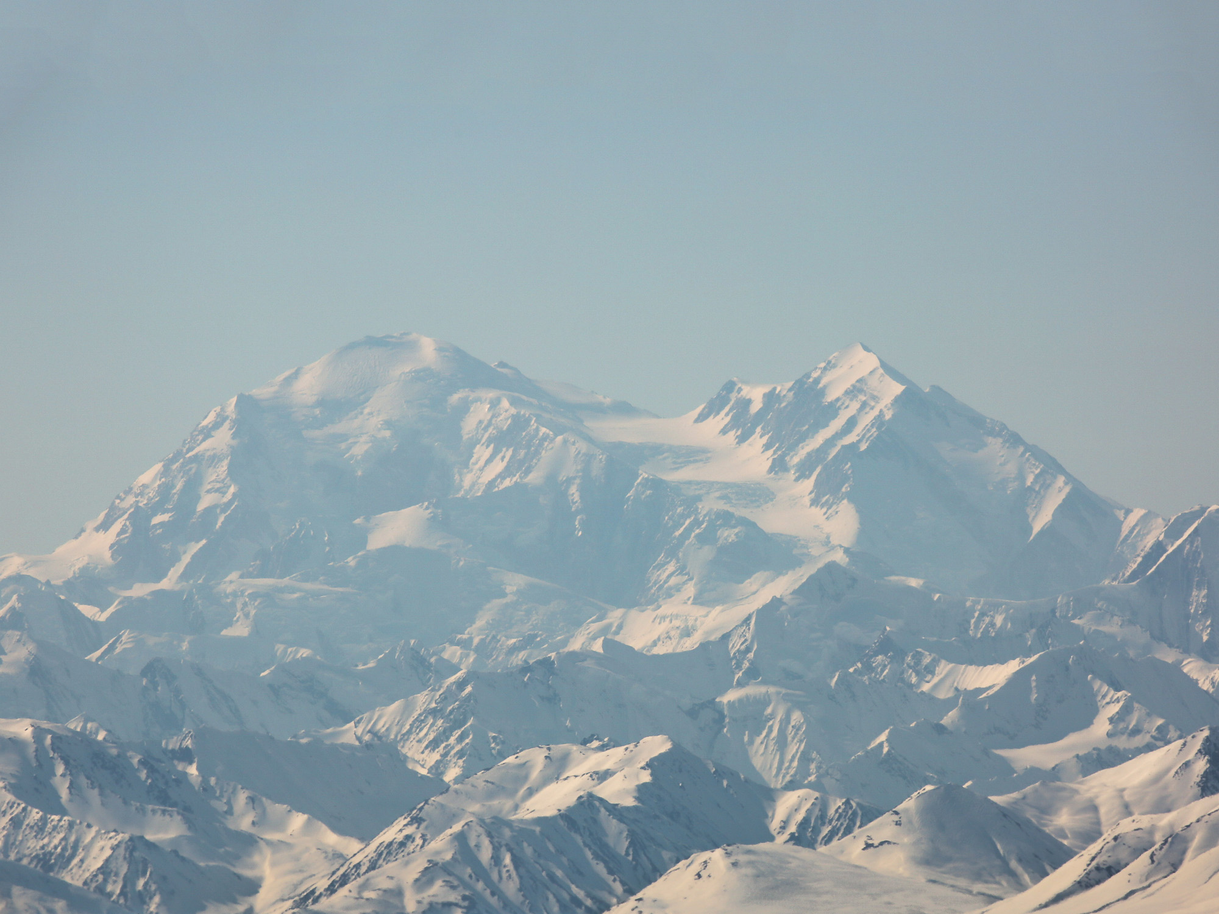
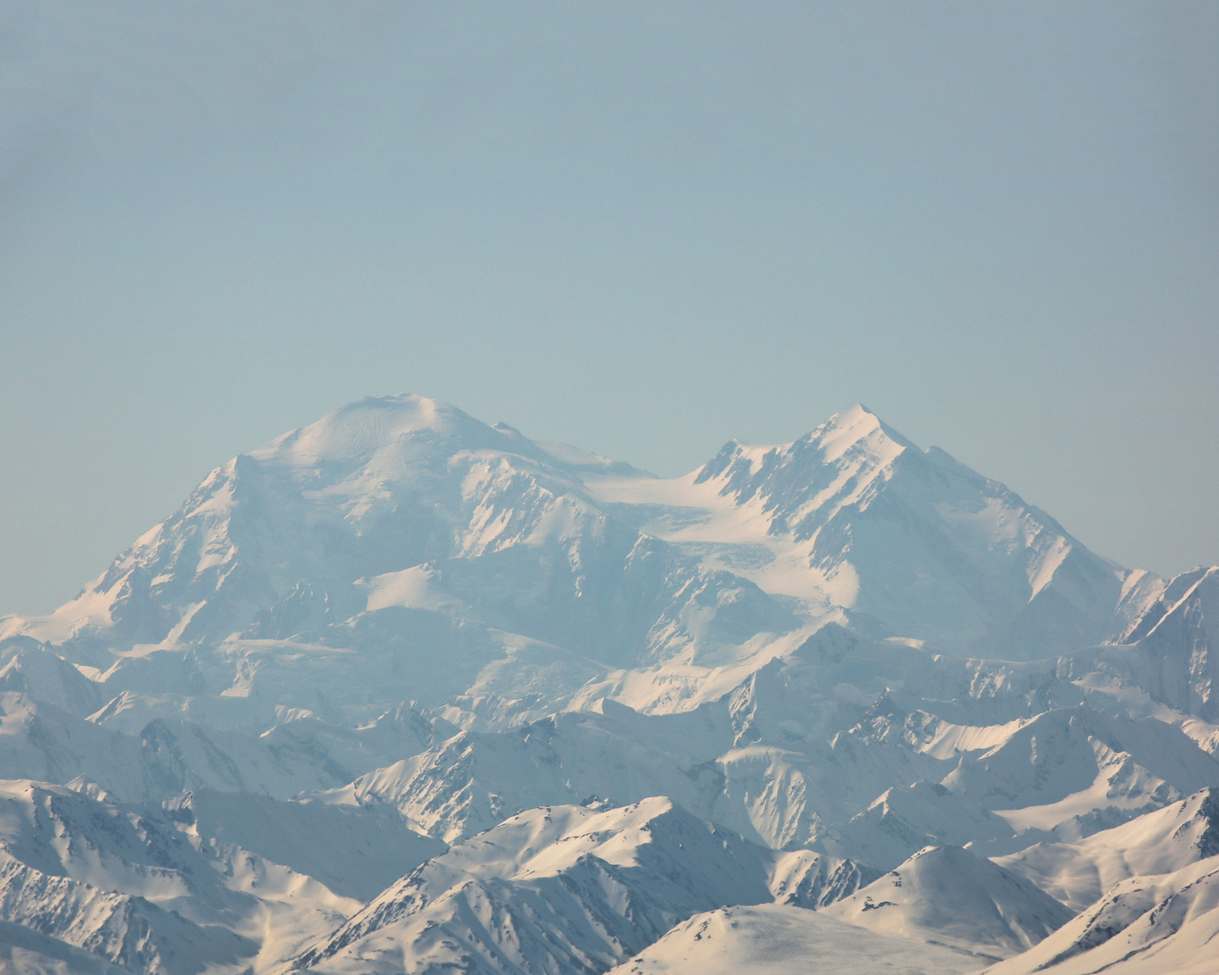
Adjusted background image

Changed region(s): [[0.0, 0.368, 1.0, 1.0], [0.713, 0.7973, 0.744, 0.828], [0.186, 0.9507, 0.217, 0.9813]]

diff --git a/index.html b/index.html
@@ -95,7 +95,7 @@ li {
 
 
 <div class=column>
-        <h2 style="font-size:40px;padding-top:7.5vh">ALASKA</h2>
+        <h2 style="font-size:40px;padding-top:10vh">ALASKA</h2>
         <p style="font-size:40px;padding-top:12.5vh"><a href="from_the_air.html">From the Air</a></p>
         <p style="font-size:40px;padding-top:2.5vh"><a href="from_the_road.html">From the Road</a></p>
 
